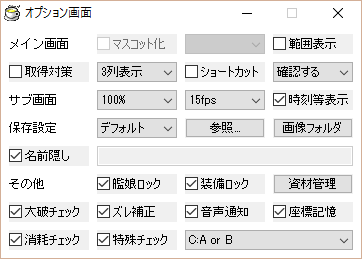
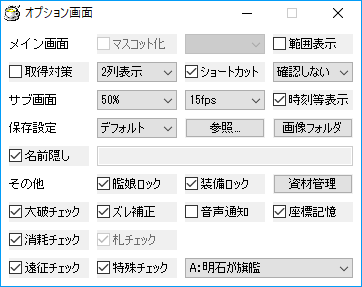
ヘルプを修正した

diff --git a/help/index.html b/help/index.html
@@ -14,7 +14,7 @@
 	</head>
 	<body>
 <!-- タイトル -->
-		<h1>おりこうさんな秘書 Ver.3.4.4</h1>
+		<h1>おりこうさんな秘書 Ver.3.4.5</h1>
 		Twitterアカウント：<a href="https://twitter.com/orikou_hisyo/">@orikou_hisyo</a>(報告用), <a href="https://twitter.com/YSRKEN/">@YSRKEN</a>(作者)<br>
 		公開ページ：<br>
 		　<a href="https://github.com/YSRKEN/orikou_hisyo/releases">GitHub</a><br>
@@ -559,7 +559,7 @@
 			　(なるべく上位互換……つまり<strong>Verの新しいものに移した際は安全</strong>なようにしています)
 			<p><a href="#howto">↑操作方法へ戻る</a></p>
 		<h2><a name="option">オプション</a></h2>
-			<img src="./images/option.png" alt="オプション画面" width="362" height="259">
+			<img src="./images/option.png" alt="オプション画面" width="362" height="287">
 			<p>　各項目について解説します。</p>
 			<table border="1" summary="オプションの各項目についての説明">
 				<tr>
@@ -648,6 +648,11 @@
 				<tr>
 					<td>消耗チェック</td>
 					<td>出撃画面(演習含む)or遠征画面の際に<strong>未補給艦が存在していた場合、出撃ボタンを白い枠で押せなくします</strong>。<br>
+					この枠は他のシーンに移ると消えます。また、枠をクリックすると無理やり解除も可能です。<strong>チェック推奨</strong>。</td>
+				</tr>
+				<tr>
+					<td>遠征チェック</td>
+					<td>遠征画面の際に艦娘数やドラム缶数をチェックし、<strong>遠征が成功しない場合、出撃ボタンを白い枠で押せなくします</strong>。<br>
 					この枠は他のシーンに移ると消えます。また、枠をクリックすると無理やり解除も可能です。<strong>チェック推奨</strong>。</td>
 				</tr>
 				<tr>
@@ -1011,6 +1016,13 @@
 				<th abbr="バージョン">バージョン</th>
 				<th abbr="公開日">公開日</th>
 				<th abbr="変更箇所">変更箇所</th>
+			</tr>
+			<tr>
+				<td>Ver.3.4.5</td>
+				<td>2017/10/21</td>
+				<td>・遠征艦隊の艦数・ドラム缶数を取得し、遠征が成功しない際は出撃をブロックする機能を追加<br>
+				・外蔵ブラウザにて、スクリプトエラーを表示しないようにした<br>
+				・艦隊情報機能にて、索敵値の読み取りミスがあったので修正</td>
 			</tr>
 			<tr>
 				<td>Ver.3.4.4</td>
@@ -1482,7 +1494,7 @@
 <!-- 著作権について -->
 		<h1><a name="copyright">著作権について</a></h1>
 		<div><dl>
-			<dt>ソフト名</dt><dd>おりこうさんな秘書 Ver.3.4.4</dd>
+			<dt>ソフト名</dt><dd>おりこうさんな秘書 Ver.3.4.5</dd>
 			<dt>種別</dt><dd>フリーウェア</dd>
 			<dt>種類</dt><dd>攻略・プレイ支援</dd>
 			<dt>開発者</dt><dd>YSR</dd>
